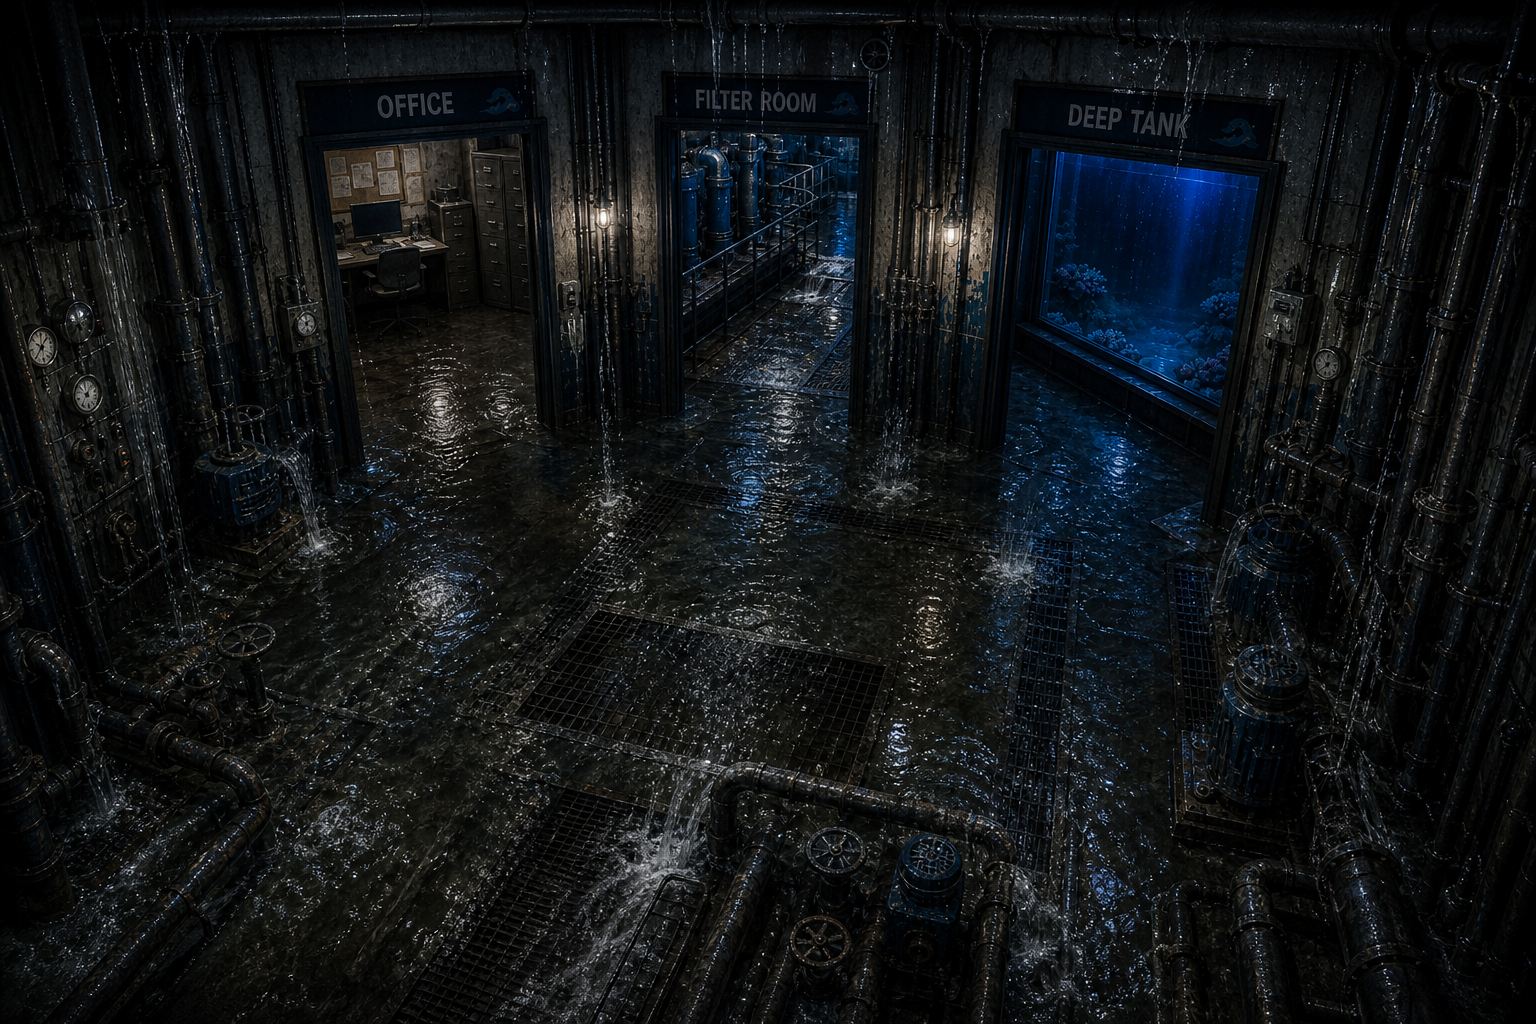
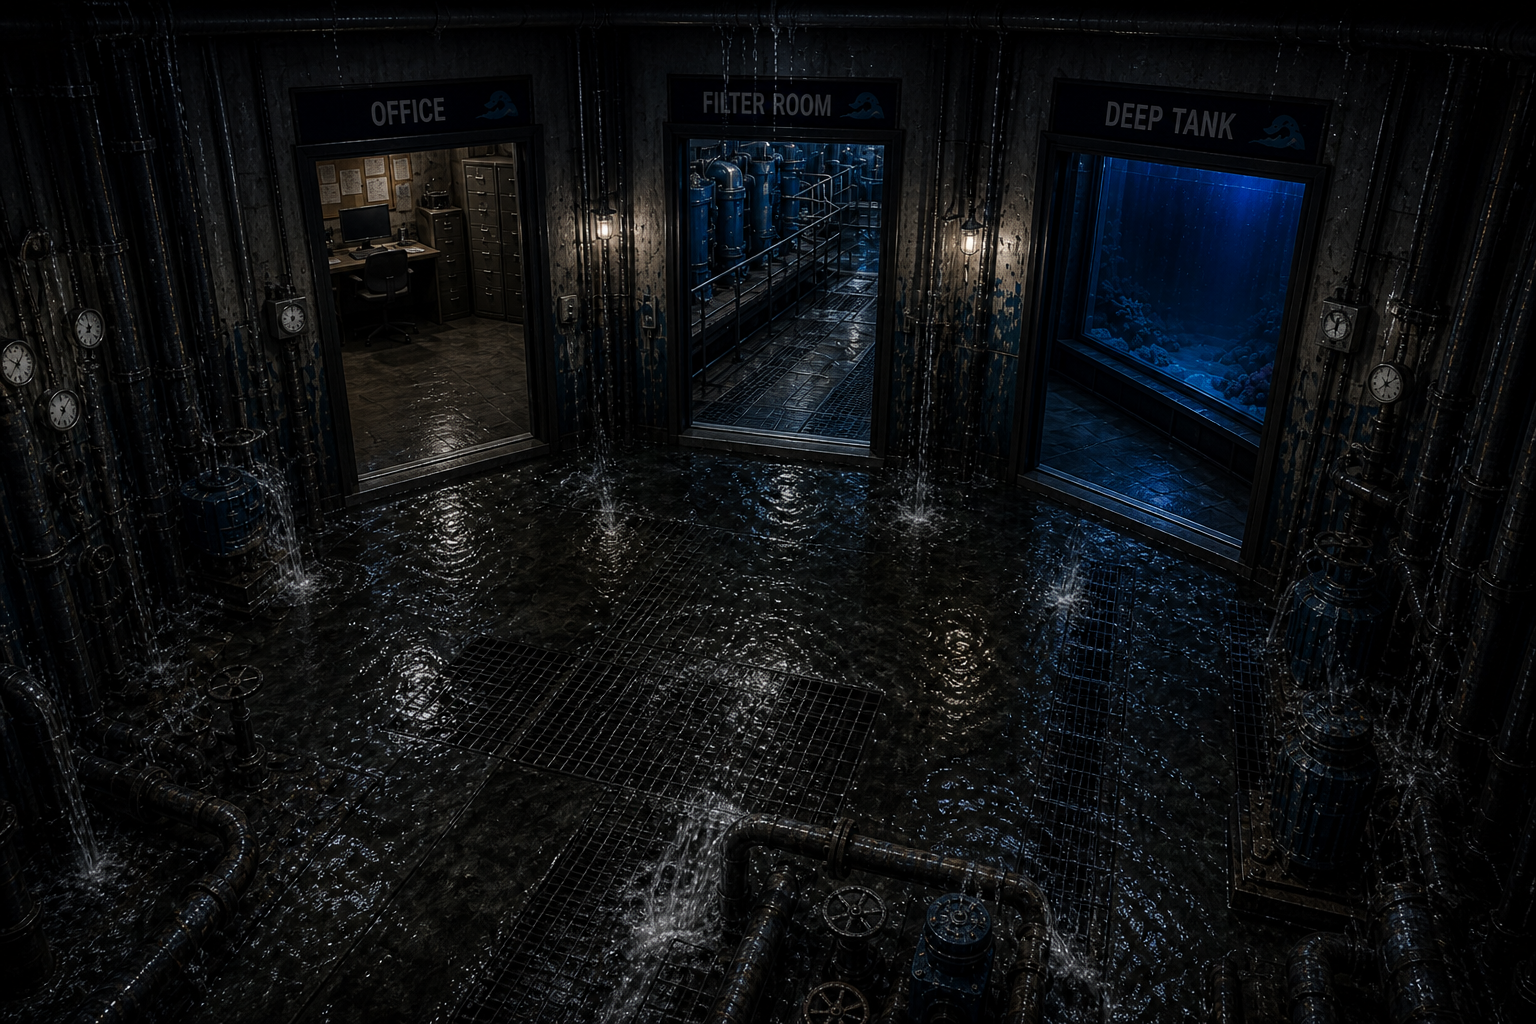
Update Drain Hub camera art and bump game to v13.
Replace the drain hub image with a wetter flooded utility room while keeping adjacent rooms dry, and show the version on the title screen for cache-busting.

Changed region(s): [[0.0, 0.0, 1.0, 1.0], [0.1875, 0.0, 0.3125, 0.0312]]

diff --git a/game.js b/game.js
@@ -6,6 +6,9 @@
 const SCREEN_WIDTH = 1000;
 const SCREEN_HEIGHT = 600;
 
+// bump this when you ship an update (matches game.js?v= in index.html)
+const GAME_VERSION = 13;
+
 const TURTLE_MOVE_TIME = 20.0;
 const SHARK_MOVE_TIME = 20.0;
 const CRAB_MOVE_TIME = 14.0;
@@ -731,6 +734,12 @@ function drawTitleScreen(titleBg, titleTimer) {
   ctx.fillStyle = "rgb(120,120,120)";
   ctx.font = "16px sans-serif";
   ctx.fillText("Survive until 6 AM", 80, 555);
+
+  ctx.fillStyle = "rgb(90,90,90)";
+  ctx.font = "14px sans-serif";
+  ctx.textAlign = "right";
+  ctx.fillText("v" + GAME_VERSION, SCREEN_WIDTH - 24, SCREEN_HEIGHT - 20);
+  ctx.textAlign = "left";
 }
 
 function drawMap(

diff --git a/index.html b/index.html
@@ -14,6 +14,6 @@
       <a href="newspaper-research.html">Newspaper research</a>
     </p>
   </main>
-  <script src="game.js?v=12"></script>
+  <script src="game.js?v=13"></script>
 </body>
 </html>
